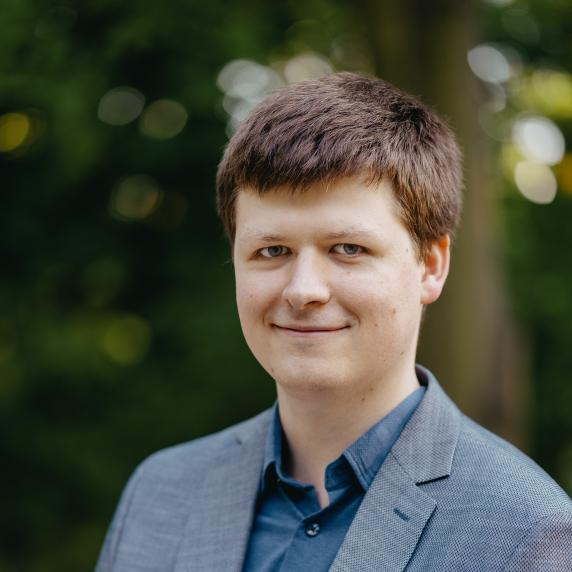
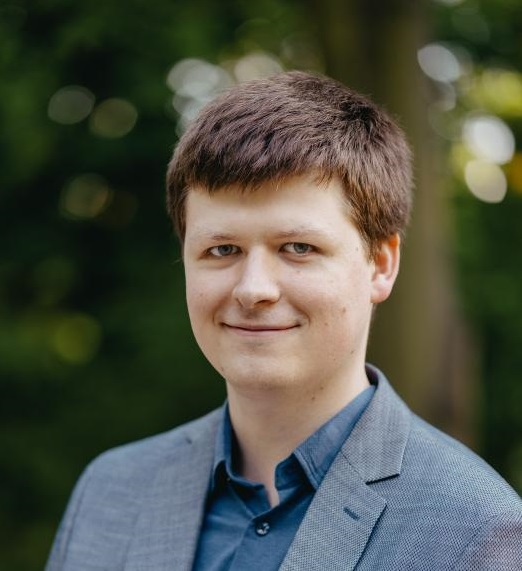
Fix style bug + crop and resize photos

diff --git a/src/components/main-page/Mentors/Mentors.tsx b/src/components/main-page/Mentors/Mentors.tsx
@@ -16,6 +16,7 @@ export function Mentors() {
             company={person.company}
             role={person.role}
             image={person.image}
+            className={styles.card}
             key={person.name}
           />
         ))}

diff --git a/src/components/main-page/Mentors/Mentors.module.scss b/src/components/main-page/Mentors/Mentors.module.scss
@@ -9,6 +9,10 @@
   color: var(--color-black);
 }
 
+.card {
+  height: 100%;
+}
+
 // tablet
 @media (min-width: 480px) {
   .cardContainer {
